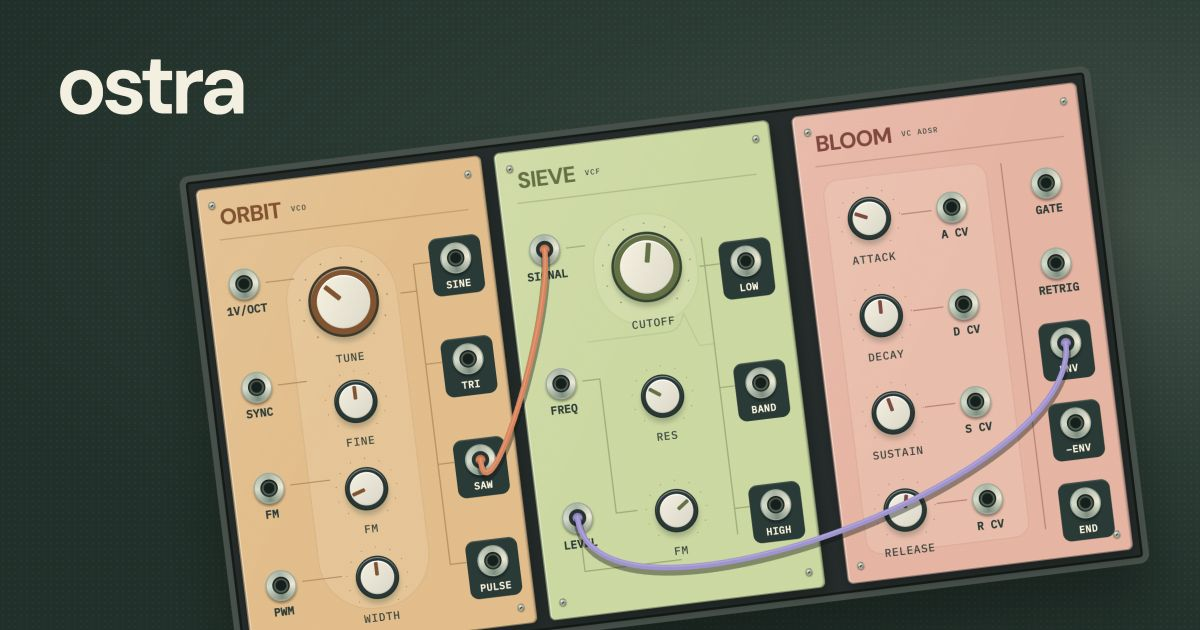
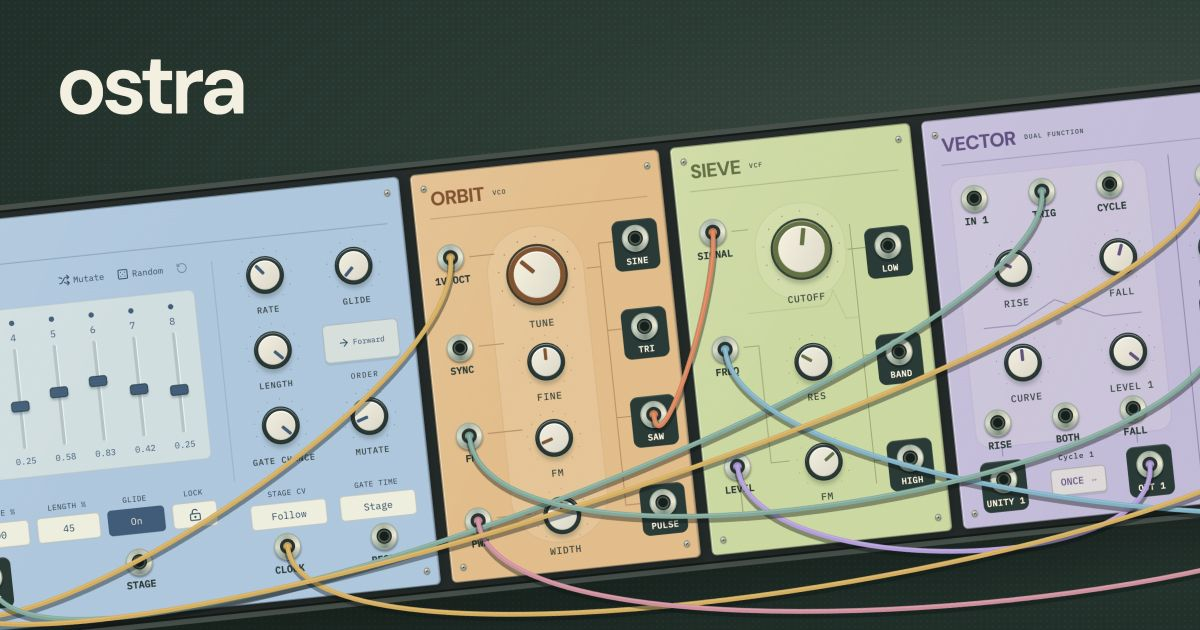
Fill social cards with a densely patched full-width synth row

diff --git a/scripts/social-cards/Card.tsx b/scripts/social-cards/Card.tsx
@@ -4,35 +4,49 @@ import { ModuleHost } from '@/components/rack/ModuleHost';
 import { Jack } from '@/components/rack/Jack';
 import { MODULES } from '@/modules/registry.generated';
 import { cableCurve } from '@/lib/cable-motion';
-import type { ModuleInstance } from '@/modules/types';
+import type { ModuleDefinition, ModuleInstance } from '@/modules/types';
 import styles from './card.module.css';
 
 const noop = () => {};
-const types = ['oscillator', 'filter', 'envelope'] as const;
+const types = ['sequencer', 'oscillator', 'filter', 'maths'] as const;
 const modules: ModuleInstance[] = types.map((type, index) => {
-  const definition = MODULES[type].definition;
+  const definition: ModuleDefinition = MODULES[type].definition;
   return {
     id: type,
     type,
     version: definition.version,
-    x: index * 242,
+    x: types.slice(0, index).reduce((x, type) => x + MODULES[type].definition.width + 10, 0),
     y: 0,
     params: Object.fromEntries(definition.params.map((param) => [param.id, param.default])),
-    data: {},
+    data:
+      type === 'sequencer'
+        ? { ...definition.createData!(), rangeMin: -1, rangeMax: 2 }
+        : (definition.createData?.() ?? {}),
   };
 });
+const rackWidth = modules.at(-1)!.x + MODULES[types.at(-1)!].definition.width;
+// A clocked voice: VECTOR clocks PATH, which controls ORBIT's pitch and the envelope.
+// The second function also modulates pulse width and filter frequency.
+modules[3].params = { ...modules[3].params, cycle4: 1, att2: 0.18, rise4: 0.3, fall4: 0.5 };
 const cables = [
-  { from: 0, output: 'saw', to: 1, input: 'in', color: '#e77f50' },
-  { from: 2, output: 'env', to: 1, input: 'vca', color: '#a193d5' },
+  { from: 0, output: 'pitch', to: 1, input: 'pitch', color: '#dcab4f' },
+  { from: 0, output: 'gate', to: 3, input: 'trig1', color: '#77ab9b' },
+  { from: 1, output: 'saw', to: 2, input: 'in', color: '#e77f50' },
+  { from: 3, output: 'ch1', to: 2, input: 'vca', color: '#b69cdc' },
+  { from: 3, output: 'ch4', to: 2, input: 'cutoff', color: '#73b4c8' },
+  { from: 3, output: 'eoc', to: 0, input: 'clock', color: '#dcab4f' },
+  { from: 3, output: 'unity4', to: 1, input: 'pwm', color: '#d98c9d' },
+  { from: 0, output: 'pitch', to: 3, input: 'in2', color: '#dcab4f' },
+  { from: 3, output: 'ch2', to: 1, input: 'fm', color: '#77ab9b' },
 ];
 
 /** Design source for the checked-in 1200 × 630 social images. No audio engine is mounted. */
 export default function Card({ learn = false }: { learn?: boolean }) {
-  const connections = learn ? cables.slice(0, 1) : cables;
+  const connections = cables;
   return (
     <main className={`${styles.card} ${learn ? styles.learn : styles.home}`}>
       <div className={styles.brand}>ostra</div>
-      <div className={styles.instrument}>
+      <div className={styles.instrument} style={{ width: rackWidth }}>
         <div className={styles.rail} />
         {types.map((type, index) => {
           const plugin = MODULES[type];
@@ -78,7 +92,7 @@ export default function Card({ learn = false }: { learn?: boolean }) {
             />
           );
         })}
-        <svg className="cables" width="750" height="500" aria-hidden="true">
+        <svg className="cables" width={rackWidth} height="550" aria-hidden="true">
           {connections.map((c) => {
             const output = MODULES[types[c.from]].definition.outputs.find(
               (p) => p.id === c.output,
@@ -89,7 +103,7 @@ export default function Card({ learn = false }: { learn?: boolean }) {
               { x: modules[c.to].x + input.x, y: input.y },
             );
             return (
-              <g key={c.output}>
+              <g key={`${c.to}-${c.input}`}>
                 <path className="cable-shadow" d={d} />
                 <path d={d} stroke={c.color} strokeWidth="4.5" />
                 <path className="cable-highlight" d={d} />

diff --git a/src/app/page.tsx b/src/app/page.tsx
@@ -8,7 +8,7 @@ export const metadata: Metadata = socialMetadata({
     'A modular synthesiser in your browser. Patch cables, explore colourful modules and build your own musical instrument.',
   path: '/',
   image: 'home',
-  alt: 'The Ostra logo above amber, green and coral synthesiser modules connected by patch cables on a dark green background.',
+  alt: 'The Ostra logo above a tilted, edge-to-edge row of colourful sequencer, oscillator, filter and function modules with dense patch cabling on a dark green background',
 });
 
 export default function Page() {

diff --git a/src/app/learn/page.tsx b/src/app/learn/page.tsx
@@ -8,7 +8,7 @@ export const metadata: Metadata = socialMetadata({
     'Learn how to program a modular synthesiser in your browser with an interactive, hands-on tutorial.',
   path: '/learn',
   image: 'learn',
-  alt: 'The Ostra logo above colourful synthesiser modules, with an oscillator patched into a filter on a warm cream background.',
+  alt: 'The Ostra logo above a tilted, edge-to-edge row of colourful sequencer, oscillator, filter and function modules with dense patch cabling on a warm cream background',
 });
 
 export default function LearnPage() {

diff --git a/scripts/social-cards/card.module.css b/scripts/social-cards/card.module.css
@@ -34,19 +34,15 @@
 }
 .instrument {
   position: absolute;
-  left: 195px;
-  top: 190px;
-  width: 716px;
+  left: -160px;
+  top: 235px;
   height: 380px;
-  transform: rotate(-7deg) scale(1.24);
+  transform: rotate(-6deg) scale(1.08);
   transform-origin: 0 0;
   filter: drop-shadow(0 30px 22px #0005);
   pointer-events: none;
 }
 .learn .instrument {
-  left: 215px;
-  top: 150px;
-  transform: rotate(6deg) scale(1.16);
   filter: drop-shadow(0 24px 20px #483b352b);
 }
 .rail {
